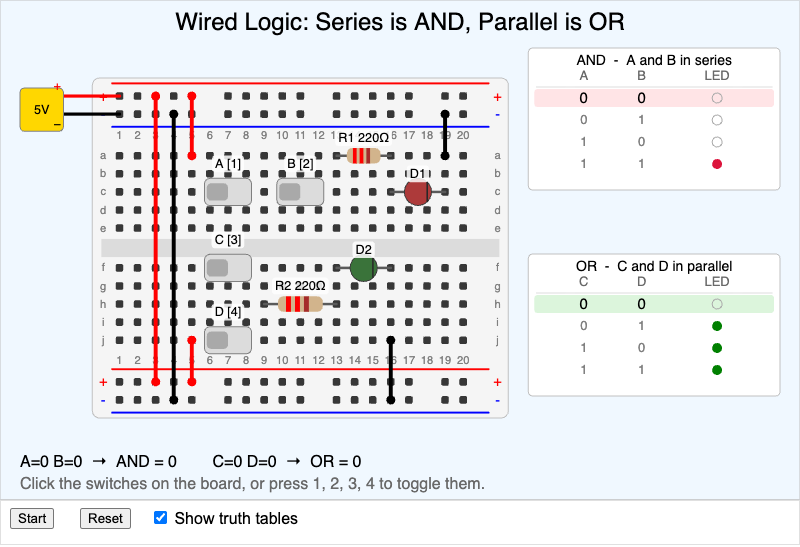
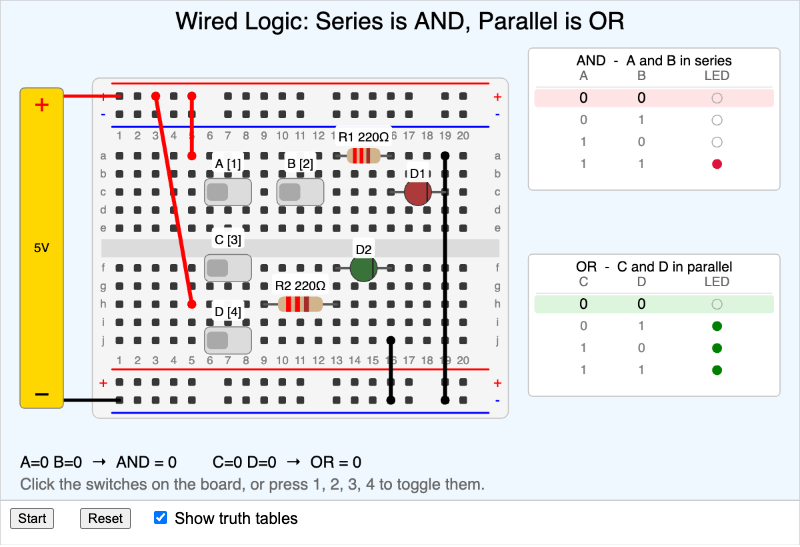
Bring the last three breadboard sims onto the strict layout rules
These were the only boards left that bbCheckLayout() flagged, so they were
printing rule warnings to the console on every load. Each had the supply's
negative terminal on the TOP - rail and carried power or ground to the other
half of the board with rail jumpers, which is exactly the habit the rules
exist to break: with a ground on the top rail there is no direction to read
off the picture.

All three now take + from the top rail and return to the bottom - rail, with
nothing on T- or B+:

  wired-logic-and-or   AND grounds to B-19; the OR gate is fed by a single
                       jumper down column 3, clear of both switch bodies.
  series-parallel-...  Parallel mode's top branch takes a long jumper down
                       the clear right-hand side to B-17; the bottom branch
                       is fed from the top rail on column 3. Series mode was
                       already compliant and only loses its two rail jumpers.
  light-dark-detector  The divider is mirrored - supply on the right, ground
                       on the left - so its ground drops straight down column
                       2, the one column where nothing is in the way. The LDR
                       is still on the supply side of the junction, so the
                       light response is unchanged. The collector load is fed
                       across the center channel, the only empty lane on this
                       24-column board; routing it along a row put the wire
[…]

diff --git a/docs/sims/light-dark-detector/light-dark-detector.js b/docs/sims/light-dark-detector/light-dark-detector.js
@@ -60,19 +60,21 @@ function setup() {
   bbLayout(margin, boardTop, 400, 300, 24);
   bbReset();
 
-  // --- Supply, on the top rails, jumpered down to the bottom rails ---
-  bbBattery({pos: 'T+1', neg: 'T-1', volts: 9, label: 'BAT'});
-  bbWire({a: 'T+4', b: 'B+4', color: 'red'});
-  bbWire({a: 'T-5', b: 'B-5', color: 'black'});
+  // --- Supply: + on the top rail, - on the bottom rail, nothing on the other
+  // two, so the whole board reads top to bottom ---
+  bbBattery({pos: 'T+1', neg: 'B-1', volts: 9, label: 'BAT'});
 
   // --- Voltage divider in the top half ---
-  // The LDR is on top and the fixed resistor below, so MORE light means LESS
-  // LDR resistance and a HIGHER voltage at the junction.
-  bbWire({a: 'T+2', b: 'a2', color: 'red'});
-  ldr = bbPotentiometer({a: 'b2', b: 'b7', maxOhms: LDR_MAX_OHMS,
+  // The LDR is on the supply side of the junction and the fixed resistor below
+  // it, so MORE light means LESS LDR resistance and a HIGHER voltage at the
+  // junction (net T7). Supply enters on the RIGHT of the divider and ground
+  // leaves on the LEFT: that puts the ground jumper on column 2, the one column
+  // where it can drop straight to the bottom rail without crossing a part.
+  bbWire({a: 'T+13', b: 'a13', color: 'red'});
+  ldr = bbPotentiometer({a: 'b13', b: 'b7', maxOhms: LDR_MAX_OHMS,
                          setting: 0.8, label: 'LDR'});
-  bbResistor({a: 'b7', b: 'b12', ohms: 4700, label: 'R2'});
-  bbWire({a: 'c12', b: 'T-12', color: 'black'});
+  bbResistor({a: 'b7', b: 'b2', ohms: 4700, label: 'R2'});
+  bbWire({a: 'c2', b: 'B-2', color: 'black'});
 
   // --- Base drive: divider junction (net T7) across to the bottom half ---
   // The jumper lands well to the right of the transistor so the base resistor
@@ -87,7 +89,10 @@ function setup() {
   // --- Collector load: an LED and a buzzer in parallel ---
   // The LED sits in row g and the buzzer in row j. A buzzer is a fat cylinder,
   // and in adjacent rows its body would cover the LED completely.
-  bbWire({a: 'j7', b: 'B+7', color: 'red'});
+  // Power crosses over from the divider's supply node rather than from a second
+  // + rail. It runs the length of the center channel, the one empty lane on
+  // this board - every row here already carries a part or a part's label.
+  bbWire({a: 'e13', b: 'f7', color: 'red'});
   bbResistor({a: 'i7', b: 'i11', ohms: 470, label: 'RL'});
   bbLED({anode: 'g11', cathode: 'g14', color: 'red', label: 'D1'});
   bbBuzzer({a: 'j11', b: 'j14', label: 'BZ1'});

diff --git a/docs/sims/series-parallel-explorer/series-parallel-explorer.js b/docs/sims/series-parallel-explorer/series-parallel-explorer.js
@@ -84,15 +84,11 @@ function setup() {
 function buildCircuit() {
   bbReset();
 
-  // Supply arrives on the top rails only - the bottom rails are fed by jumpers,
-  // exactly as they would be on a real board.
-  bbBattery({pos: 'T+1', neg: 'T-1', volts: voltsSlider ? voltsSlider.value() : 6,
+  // The supply frames the board: + on the top rail, - on the bottom rail, and
+  // nothing on the other two. Both modes then run downhill, so the only thing
+  // that changes on screen is the topology itself.
+  bbBattery({pos: 'T+1', neg: 'B-1', volts: voltsSlider ? voltsSlider.value() : 6,
              label: 'BAT'});
-
-  // Power distribution is identical in both modes, so the only thing that
-  // changes on screen is the topology itself.
-  bbWire({a: 'T+2', b: 'B+2', color: 'red'});      // carry + down to the bottom rail
-  bbWire({a: 'T-3', b: 'B-3', color: 'black'});    // and ground with it
 
   // Parts alternate between rows b/d in the top half and rows g/i in the
   // bottom half. Staggering them by two rows keeps each part's value label
@@ -112,12 +108,15 @@ function buildCircuit() {
     // Two independent branches, one in each half of the board, each running
     // from a + rail to a - rail. Neither branch knows the other exists, which
     // is exactly the point.
+    // Each branch reaches the bottom - rail on its own: the top one takes a
+    // long jumper down the clear right-hand side, the bottom one is already
+    // beside it. Neither borrows a second rail.
     bbWire({a: 'T+5', b: 'a5', color: 'red'});
     bbResistor({a: 'b5', b: 'b9', ohms: SERIES_OHMS, label: 'R1'});
     bbLED({anode: 'd9', cathode: 'd13', color: 'red', label: 'D1'});
-    bbWire({a: 'a13', b: 'T-13', color: 'black'});
+    bbWire({a: 'a13', b: 'B-17', color: 'black'});
 
-    bbWire({a: 'B+5', b: 'j5', color: 'red'});
+    bbWire({a: 'T+3', b: 'h5', color: 'red'});
     bbResistor({a: 'i5', b: 'i9', ohms: SERIES_OHMS, label: 'R2'});
     bbLED({anode: 'g9', cathode: 'g13', color: 'red', label: 'D2'});
     bbWire({a: 'j13', b: 'B-13', color: 'black'});

diff --git a/docs/sims/wired-logic-and-or/wired-logic-and-or.js b/docs/sims/wired-logic-and-or/wired-logic-and-or.js
@@ -50,10 +50,10 @@ function setup() {
   bbLayout(margin, boardTop, 400, 300, 20);
   bbReset();
 
-  // Supply on the top rails, jumpered down so the bottom half has power too
-  bbBattery({pos: 'T+1', neg: 'T-1', volts: 5, label: 'BAT'});
-  bbWire({a: 'T+3', b: 'B+3', color: 'red'});
-  bbWire({a: 'T-4', b: 'B-4', color: 'black'});
+  // The supply frames the board: + on the top rail, - on the bottom rail, and
+  // nothing at all on the other two. Both gates therefore run downhill, which
+  // is what lets a student read current direction off the picture alone.
+  bbBattery({pos: 'T+1', neg: 'B-1', volts: 5, label: 'BAT'});
 
   // --- AND: two switches in SERIES, top half ---
   // Current has one path, so it needs BOTH switches closed to get through.
@@ -64,13 +64,15 @@ function setup() {
   bbSwitch({a: 'c9', b: 'c13', label: 'B', key: '2'});
   bbResistor({a: 'a13', b: 'a16', ohms: 220, label: 'R1'});
   bbLED({anode: 'c16', cathode: 'c19', color: 'red', label: 'D1'});
-  bbWire({a: 'a19', b: 'T-19', color: 'black'});
+  bbWire({a: 'a19', b: 'B-19', color: 'black'});
 
   // --- OR: two switches in PARALLEL, bottom half ---
   // Both switches bridge the same pair of nets, so EITHER one completes the
   // circuit on its own. Rows f and j keep them far enough apart that a click
   // can never land on both.
-  bbWire({a: 'B+5', b: 'j5', color: 'red'});
+  // Power for the bottom half comes down from the top rail on column 3, which
+  // is clear of both switch bodies, rather than from a second + rail.
+  bbWire({a: 'T+3', b: 'h5', color: 'red'});
   bbSwitch({a: 'f5', b: 'f9', label: 'C', key: '3'});
   bbSwitch({a: 'j5', b: 'j9', label: 'D', key: '4'});
   bbResistor({a: 'h9', b: 'h13', ohms: 220, label: 'R2'});

diff --git a/docs/sims/series-parallel-explorer/index.md b/docs/sims/series-parallel-explorer/index.md
@@ -28,8 +28,9 @@ battery has to supply twice as much.
 
 ## The Circuit
 
-Power always arrives on the top rails and is jumpered down to the bottom rails,
-so the only thing that changes between the two modes is the topology itself.
+The supply frames the board — `+` on the top rail, `−` on the bottom rail, and
+nothing on the other two — so the only thing that changes between the two modes
+is the topology itself.
 
 **Series** — one loop, crossing the center channel partway through:
 
@@ -41,8 +42,8 @@ T+ rail → a5 → R1 220Ω → D1 → across the channel (e12 → f12)
 **Parallel** — two independent branches, one in each half of the board:
 
 ```linenums="0"
-T+ rail → a5 → R1 220Ω → D1 → T− rail
-B+ rail → j5 → R2 220Ω → D2 → B− rail
+T+ rail → a5 → R1 220Ω → D1 → B− rail
+T+ rail → h5 → R2 220Ω → D2 → B− rail
 ```
 
 | Component | Value | Purpose |
@@ -76,9 +77,9 @@ parallel branches visibly move dots faster than the series loop. In parallel,
 the wire feeding the two branches carries both branch currents — watch it run
 faster than either branch.
 
-The red rail jumper carries no current in series mode and shows no dots. It is
-still correct to leave it in place, which is worth pointing out: a wire with no
-current is not a wasted wire.
+In series mode the whole loop carries one current, so every wire animates at the
+same speed. That is worth pointing out on its own: equal dot speed everywhere is
+what "the same current passes through every part" looks like.
 
 ## Lesson Plan
 

diff --git a/docs/sims/wired-logic-and-or/index.md b/docs/sims/wired-logic-and-or/index.md
@@ -31,18 +31,22 @@ live as you flip switches.
 
 ## The Circuit
 
+Both gates hang off the same two rails: the `+` rail along the top of the board
+and the `−` rail along the bottom. Nothing is connected to the other two rails,
+so every path runs downhill and the dots always travel the same direction.
+
 **AND** — series, in the top half:
 
 ```linenums="0"
-T+ rail → a5 → SW A → SW B → R1 220Ω → D1 (red) → T− rail
+T+ rail → a5 → SW A → SW B → R1 220Ω → D1 (red) → B− rail
 ```
 
 **OR** — parallel, in the bottom half:
 
 ```linenums="0"
-B+ rail → j5 → SW C ┐
+T+ rail → h5 → SW C ┐
                     ├→ R2 220Ω → D2 (green) → B− rail
-B+ rail → j5 → SW D ┘
+T+ rail → h5 → SW D ┘
 ```
 
 Switches C and D both bridge the same pair of columns, which is what puts them

diff --git a/docs/sims/light-dark-detector/index.md b/docs/sims/light-dark-detector/index.md
@@ -33,10 +33,10 @@ switch rather than a dimmer.
 ## The Circuit
 
 ```linenums="0"
-9 V rail → LDR (0–100 kΩ) → divider junction → R2 4.7 kΩ → ground
+T+ rail → LDR (0–100 kΩ) → divider junction → R2 4.7 kΩ → B− rail
 divider junction → RB 4.7 kΩ → Q1 base
-B+ rail → RL 470Ω → D1 → Q1 collector;  BZ1 in parallel with D1
-Q1 emitter → ground
+divider supply → RL 470Ω → D1 → Q1 collector;  BZ1 in parallel with D1
+Q1 emitter → B− rail
 ```
 
 | Component | Value | Purpose |
